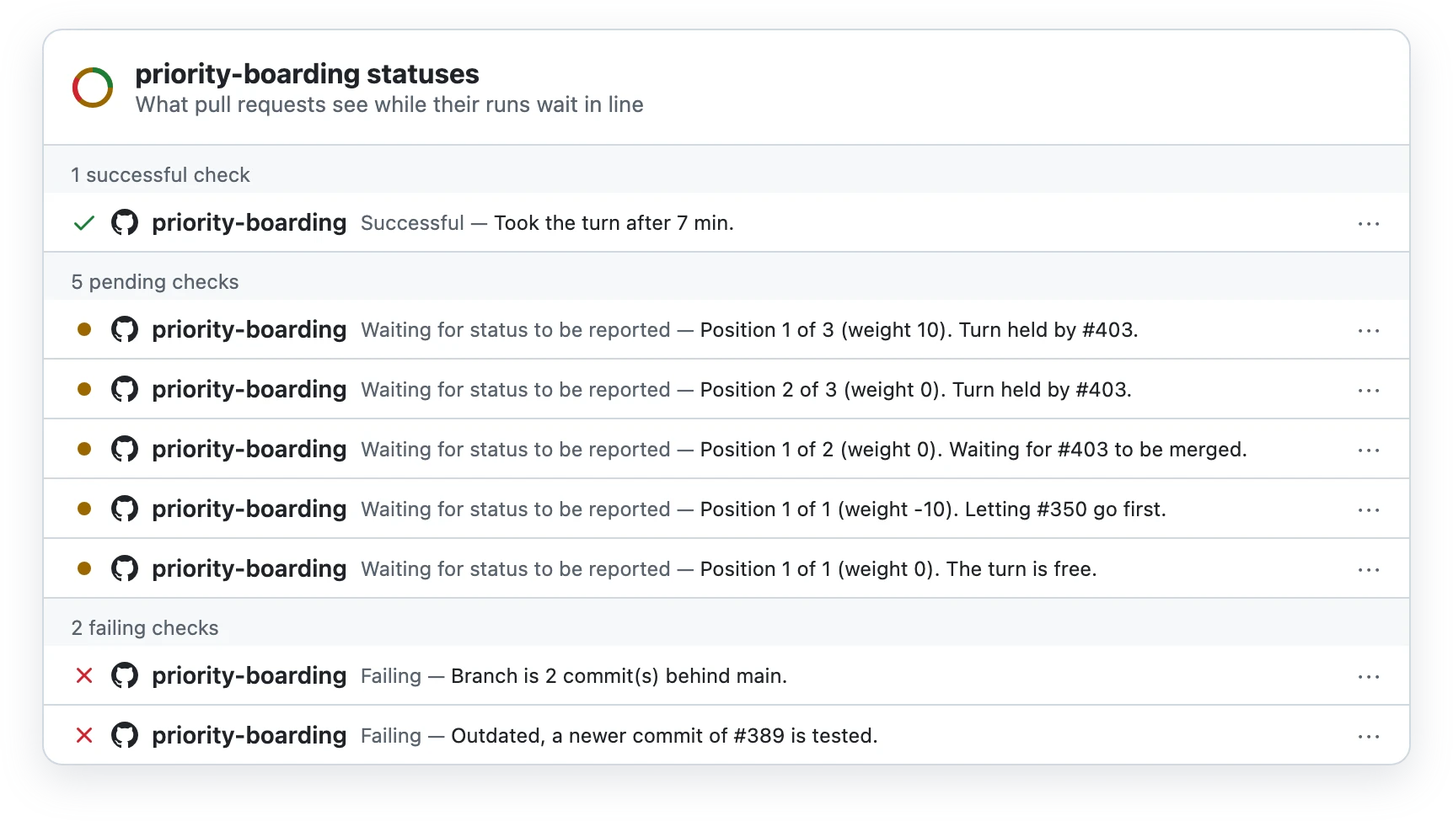
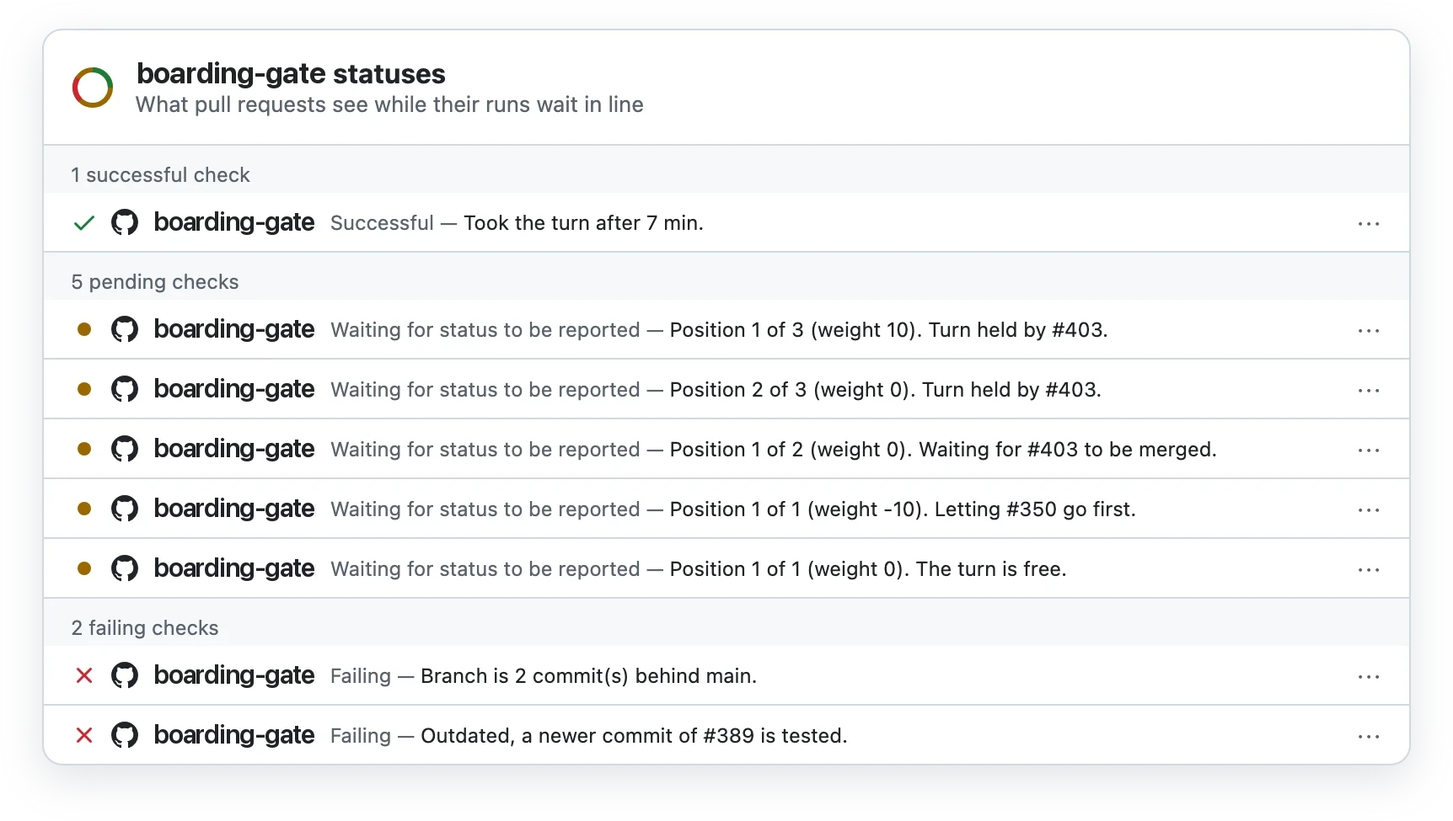
feat: rename the action to boarding-gate
The main job of the action is the gate: one run at a time gets through, the others wait in line. Priority by labels is one part of that, and the old name made it look like the whole point.

Renamed: the repository, the action, the reusable workflows (now .github/workflows/boarding-gate.yml and boarding-gate-forks.yml), their job and step names, the lock refs (refs/boarding-gate/<workflow>/<n>), the lock commit message, the default status context, the README images and the links in the changelog. There is no backwards compatibility.

Callers need to change:
- uses: udondan/boarding-gate@v1, or udondan/boarding-gate/.github/workflows/boarding-gate.yml@v1 for the reusable workflow
- the job name in needs: when it was priority-boarding
- required status checks in branch protection that use the default status context priority-boarding

diff --git a/README.md b/README.md
@@ -1,21 +1,21 @@
-# priority-boarding
+# boarding-gate
 
 <picture>
   <source media="(prefers-color-scheme: dark)" srcset=".github/banner-dark.webp">
-  <img alt="priority-boarding: Everyone waits. The gate decides who's next." src=".github/banner-light.webp">
+  <img alt="boarding-gate: Everyone waits. The gate decides who's next." src=".github/banner-light.webp">
 </picture>
 
-[![Release](https://img.shields.io/github/v/release/udondan/priority-boarding)](https://github.com/udondan/priority-boarding/releases/latest)
-[![Marketplace](https://img.shields.io/badge/marketplace-priority--boarding-blue?logo=github)](https://github.com/marketplace/actions/priority-boarding)
-[![Test](https://github.com/udondan/priority-boarding/actions/workflows/test.yml/badge.svg?branch=main)](https://github.com/udondan/priority-boarding/actions/workflows/test.yml?query=branch%3Amain)
-[![Coverage](https://codecov.io/gh/udondan/priority-boarding/graph/badge.svg)](https://codecov.io/gh/udondan/priority-boarding)
-[![License](https://img.shields.io/github/license/udondan/priority-boarding)](LICENSE)
+[![Release](https://img.shields.io/github/v/release/udondan/boarding-gate)](https://github.com/udondan/boarding-gate/releases/latest)
+[![Marketplace](https://img.shields.io/badge/marketplace-boarding--gate-blue?logo=github)](https://github.com/marketplace/actions/boarding-gate)
+[![Test](https://github.com/udondan/boarding-gate/actions/workflows/test.yml/badge.svg?branch=main)](https://github.com/udondan/boarding-gate/actions/workflows/test.yml?query=branch%3Amain)
+[![Coverage](https://codecov.io/gh/udondan/boarding-gate/graph/badge.svg)](https://codecov.io/gh/udondan/boarding-gate)
+[![License](https://img.shields.io/github/license/udondan/boarding-gate)](LICENSE)
 
 GitHub Action that queues the runs of a workflow so only one run at a time uses shared resources (test stacks, environments), without cancelling pending runs the way a `concurrency` group does. Runs are ordered by the labels of their pull requests, so for example your own pull requests are tested before dependency updates, and release pull requests last. See [Alternatives](#alternatives) for when merge queue fits better.
 
 ## How it works
 
-The run that has the turn holds the lock ref `refs/priority-boarding/<workflow>/<n>`. The turn is released when that run completes, including all jobs after the wait, or, if its pull request is about to be auto-merged, after the merge (see [Outdated branches](#outdated-branches)). A failed or cancelled run releases it as well, so cancelling the run holding the turn frees it, also in the middle of a job after the wait. The next run takes the turn by creating ref `<n+1>`. Creating a ref fails if it already exists, so only one run can take the turn. Old lock refs are deleted.
+The run that has the turn holds the lock ref `refs/boarding-gate/<workflow>/<n>`. The turn is released when that run completes, including all jobs after the wait, or, if its pull request is about to be auto-merged, after the merge (see [Outdated branches](#outdated-branches)). A failed or cancelled run releases it as well, so cancelling the run holding the turn frees it, also in the middle of a job after the wait. The next run takes the turn by creating ref `<n+1>`. Creating a ref fails if it already exists, so only one run can take the turn. Old lock refs are deleted.
 
 Waiting runs are ordered by weight (highest first), then by start time. A re-run of the run holding the turn keeps it. A re-run of any other run queues by its new start time. A run of a pull request that has a newer run is left out of the queue: its commit is outdated, and it can stay active for a while after it stopped waiting, for example while other jobs finish after it failed as outdated. A waiting run fails as soon as its pull request has a newer run of another commit, so it never tests the outdated commit. To stop it right away instead of at its next check, add a `concurrency` group (see [Workflow setup](#workflow-setup)).
 
@@ -69,7 +69,7 @@ flowchart TD
 
 ```yaml
 jobs:
-  priority-boarding:
+  boarding-gate:
     runs-on: ubuntu-latest
     timeout-minutes: 180
     permissions:
@@ -80,7 +80,7 @@ jobs:
       group: ${{ github.workflow }}-wait-${{ github.event.pull_request.number || github.ref }}
       cancel-in-progress: true
     steps:
-      - uses: udondan/priority-boarding@v1
+      - uses: udondan/boarding-gate@v1
         with:
           require-up-to-date: true
           label-weights: |
@@ -88,12 +88,12 @@ jobs:
             renovate=-5
 
   deploy:
-    needs: priority-boarding
+    needs: boarding-gate
     if: ${{ !cancelled() }}
     runs-on: ubuntu-latest
     steps:
       - name: Check turn
-        if: needs.priority-boarding.result != 'success'
+        if: needs.boarding-gate.result != 'success'
         run: exit 1
       # ...
 ```
@@ -106,22 +106,22 @@ The wait job can also be called as a [reusable workflow](https://docs.github.com
 
 ```yaml
 jobs:
-  priority-boarding:
+  boarding-gate:
     permissions:
       actions: read
       contents: write
       pull-requests: read
       statuses: write
-    uses: udondan/priority-boarding/.github/workflows/priority-boarding.yml@v1
+    uses: udondan/boarding-gate/.github/workflows/boarding-gate.yml@v1
     secrets:
       update-token: ${{ secrets.UPDATE_TOKEN }}
 
   deploy:
-    needs: priority-boarding
+    needs: boarding-gate
     # ...
 ```
 
-It runs the action with a `concurrency` group that cancels outdated waiting runs (see [Workflow setup](#workflow-setup)) and queues on the calling workflow. The action comes from the same commit as the workflow file, so `@v1` follows every release of both. The calling job can still have its own `needs` and `if`, but no `runs-on` or `steps`. Its permissions are the most the called job gets, so grant them there. `statuses: write` is only needed for `status-context`. In the checks of a pull request, the job is shown as `priority-boarding / Priority boarding`.
+It runs the action with a `concurrency` group that cancels outdated waiting runs (see [Workflow setup](#workflow-setup)) and queues on the calling workflow. The action comes from the same commit as the workflow file, so `@v1` follows every release of both. The calling job can still have its own `needs` and `if`, but no `runs-on` or `steps`. Its permissions are the most the called job gets, so grant them there. `statuses: write` is only needed for `status-context`. In the checks of a pull request, the job is shown as `boarding-gate / Boarding gate`.
 
 The inputs are the [inputs](#inputs) of the action, with the secrets `update-token` and `token`. Some defaults differ from the action's, to match the setup this README recommends:
 
@@ -131,7 +131,7 @@ The inputs are the [inputs](#inputs) of the action, with the secrets `update-tok
 | `no-pull-request-weight` | `-100`                                                    |
 | `timeout-minutes`        | `180`                                                     |
 | `require-up-to-date`     | `true`                                                    |
-| `status-context`         | `priority-boarding`                                       |
+| `status-context`         | `boarding-gate`                                       |
 
 With these weights, label a pull request `urgent` to move its run to the front of the queue, also while it is waiting. Create the label in your repository first. Your own `label-weights` replace the defaults, so add `urgent=10` to them to keep it.
 
@@ -165,7 +165,7 @@ Pass `label-weights: ''` or `status-context: ''` under `with:` to turn them off.
 
 ```yaml
   required:
-    needs: [priority-boarding, deploy]
+    needs: [boarding-gate, deploy]
     if: always()
     runs-on: ubuntu-latest
     steps:
@@ -189,7 +189,7 @@ on:
     branches: [main]
 
 # ...
-      - uses: udondan/priority-boarding@v1
+      - uses: udondan/boarding-gate@v1
         with:
           label-weights: |
             autorelease: pending=-10
@@ -208,7 +208,7 @@ With branch protection requiring branches to be up to date, testing a branch tha
 Not every branch gets updated after a merge. release-please, for example, leaves its pull request alone when the merged commit doesn't change the changelog, so its runs would fail forever. With `update-token`, the action rebases a branch that is behind onto the base branch before failing, and the new commit starts a new run. Pushes made with `github.token` don't start workflow runs, so `update-token` has to be a personal access token or a GitHub App token with `contents: write` and `pull-requests: write`. Branches of forks are never updated.
 
 ```yaml
-      - uses: udondan/priority-boarding@v1
+      - uses: udondan/boarding-gate@v1
         with:
           require-up-to-date: true
           update-token: ${{ secrets.UPDATE_TOKEN }}
@@ -221,7 +221,7 @@ After a merge, the other pull requests are updated at different times. A release
 With `update-pending-branches: true` and `update-token`, the waiting run also rebases such a pull request when its tested branch is behind, and lets the new commit go first. This keeps the order by weight after a merge, without waiting for the branch to be updated by someone else. It costs a run per rebase, also for a pull request whose tests fail: it is tested again each time its base branch moves on. Branches of forks are never updated.
 
 ```yaml
-      - uses: udondan/priority-boarding@v1
+      - uses: udondan/boarding-gate@v1
         with:
           require-up-to-date: true
           update-pending-branches: true
@@ -238,7 +238,7 @@ The log shows the queue, but GitHub doesn't show the log of a composite action l
 
 <picture>
   <source media="(prefers-color-scheme: dark)" srcset=".github/statuses-dark.webp">
-  <img alt="Examples of the priority-boarding commit status: took the turn, waiting in line behind a running pull request, waiting for a pull request to be merged, letting a pull request with a higher weight go first, the turn is free, branch behind, outdated commit" src=".github/statuses-light.webp" width="862">
+  <img alt="Examples of the boarding-gate commit status: took the turn, waiting in line behind a running pull request, waiting for a pull request to be merged, letting a pull request with a higher weight go first, the turn is free, branch behind, outdated commit" src=".github/statuses-light.webp" width="862">
 </picture>
 
 The token needs `statuses: write`. Without it, the action logs a warning and waits without the status. A run killed before it can clean up leaves the status pending.
@@ -250,9 +250,9 @@ The token needs `statuses: write`. Without it, the action logs a warning and wai
       pull-requests: read
       statuses: write
     steps:
-      - uses: udondan/priority-boarding@v1
+      - uses: udondan/boarding-gate@v1
         with:
-          status-context: priority-boarding
+          status-context: boarding-gate
 ```
 
 ## Alternatives
@@ -270,7 +270,7 @@ Runs of pull requests from forks get a read-only token and can't create the lock
 That other run is started by `workflow_run`, which runs the workflow of the default branch with a writable token, also for runs of forks. Add this workflow next to the one that waits, with the `name` of that workflow under `workflows`:
 
 ```yaml
-name: Priority boarding for forks
+name: Boarding gate for forks
 
 on:
   workflow_run: # zizmor: ignore[dangerous-triggers] no code of the pull request is run
@@ -280,14 +280,14 @@ on:
 permissions: {}
 
 jobs:
-  priority-boarding:
+  boarding-gate:
     if: github.event.workflow_run.event == 'pull_request' && github.event.workflow_run.head_repository.full_name != github.repository
     permissions:
       actions: read
       contents: write
       pull-requests: read
       statuses: write
-    uses: udondan/priority-boarding/.github/workflows/priority-boarding.yml@v1
+    uses: udondan/boarding-gate/.github/workflows/boarding-gate.yml@v1
     with:
       run-id: ${{ format('{0}', github.event.workflow_run.id) }}
 ```

diff --git a/AGENTS.md b/AGENTS.md
@@ -4,7 +4,7 @@ This file provides guidance to Claude Code (claude.ai/code) when working with co
 
 ## What this is
 
-A composite GitHub Action. `action.yml` maps inputs to `INPUT_*` env vars (plus PR context like `PR_NUMBER`, `BASE_REF`, `HEAD_SHA`, `HEAD_REPO`, `UPDATE_TOKEN`) and runs `wait.sh`. All logic is in `wait.sh` (bash + `gh api` + `jq`). There is no build step and no package manager. `.github/workflows/priority-boarding.yml` is a reusable workflow (`on: workflow_call`, never runs on its own) with the recommended wait job; it calls the action with `uses: $/`, the same commit, and `test.yml` calls it on every PR as a test. README.md documents user-facing behavior; keep it, `action.yml` input descriptions, the inputs of the reusable workflow and the header comment of `wait.sh` in sync when behavior changes. The mermaid flow diagram under "How it works" in README.md shows the main loop of `wait.sh`: update it in the same change whenever a step, exit, wait condition or path through the loop changes (forks and `run-id` runs included), so it always matches the code. The same goes for the sequence diagram under "Pull requests from forks", which shows how a fork's run and the `workflow_run` run with `run-id` hand over the turn.
+A composite GitHub Action. `action.yml` maps inputs to `INPUT_*` env vars (plus PR context like `PR_NUMBER`, `BASE_REF`, `HEAD_SHA`, `HEAD_REPO`, `UPDATE_TOKEN`) and runs `wait.sh`. All logic is in `wait.sh` (bash + `gh api` + `jq`). There is no build step and no package manager. `.github/workflows/boarding-gate.yml` is a reusable workflow (`on: workflow_call`, never runs on its own) with the recommended wait job; it calls the action with `uses: $/`, the same commit, and `test.yml` calls it on every PR as a test. README.md documents user-facing behavior; keep it, `action.yml` input descriptions, the inputs of the reusable workflow and the header comment of `wait.sh` in sync when behavior changes. The mermaid flow diagram under "How it works" in README.md shows the main loop of `wait.sh`: update it in the same change whenever a step, exit, wait condition or path through the loop changes (forks and `run-id` runs included), so it always matches the code. The same goes for the sequence diagram under "Pull requests from forks", which shows how a fork's run and the `workflow_run` run with `run-id` hand over the turn.
 
 ## Commands
 
@@ -18,14 +18,14 @@ Tool versions are pinned in `mise.toml` (bats, ruby, shellcheck, actionlint, ziz
 
 ## How wait.sh works
 
-- **Lock**: the turn is held by the run that created the newest ref `refs/priority-boarding/<workflow>/<n>`. Taking the turn = creating a commit (message `priority-boarding: run <id>[, pull request <n>]`) and ref `<n+1>`. Ref creation returns HTTP 422 if it exists, which is the mutual exclusion. After creating, it re-checks the newest ref (a stale run may recreate an old number) and deletes older refs. The holder's run id / PR are parsed back from the lock commit message (`read_holder`), so that format is a contract.
+- **Lock**: the turn is held by the run that created the newest ref `refs/boarding-gate/<workflow>/<n>`. Taking the turn = creating a commit (message `boarding-gate: run <id>[, pull request <n>]`) and ref `<n+1>`. Ref creation returns HTTP 422 if it exists, which is the mutual exclusion. After creating, it re-checks the newest ref (a stale run may recreate an old number) and deletes older refs. The holder's run id / PR are parsed back from the lock commit message (`read_holder`), so that format is a contract.
 - **Holder liveness** (`is_active`): active runs come from the *unfiltered* runs list filtered client-side, because the API's `status` filter is backed by a stale search index. A holder missing from that list is fetched directly; only a 404 or `completed` releases the turn, other errors keep it held.
 - **Merge wait** (`merge_pending`): a successful holder whose PR has auto-merge keeps the turn until merged/closed, behind/dirty, blocked by a failed required check (GraphQL `isRequired`, a read error keeps waiting), new head commit, or `merge-wait-minutes`.
 - **Queue**: active runs minus the holder, minus older runs of a PR that has a newer run (this run stays, but `check_newer_run` fails it if the newer run is of another commit), sorted by label weight desc, then `run_started_at`, then id.
 - **Yield** (`find_pending`/`yielding`): before taking a free turn, the first run defers to open auto-merge PRs with higher weight whose head sha has no run yet, up to `yield-to-pending-minutes`. A tested PR that is behind is not waited for, unless `update-pending-branches` (needs `update-token`, never forks): then `check_head` rebases it and defers to its new commit.
 - **Polling**: first in line (or turn free) sleeps `poll-interval-seconds`, others `queued-poll-interval-seconds`; PR labels are refreshed on the slow interval or when the turn is free.
 - **Up to date** (`check_up_to_date`/`update_branch`): with `require-up-to-date`, fails when behind; with `update-token` it first runs `gh pr update-branch --rebase` (never for forks) and still exits 1, since the new commit starts a new run.
-- **Forks** (`read_only`, `run_id`, `self`): `self` is the run that waits, `GITHUB_RUN_ID` or `run-id`. A read-only run (auto: `pull_request` from a fork) never writes, `update-token` and `update-pending-branches` are ignored. When first in line with a free turn it waits for a lock naming it, `wait_for_handoff` fails it after 5 minutes. A `run-id` run (started by `workflow_run`, see `priority-boarding-forks.yml`) resolves head sha, PR (named by the run, else by head branch for `pull_request` and `pull_request_target` runs) and workflow from that run, takes the turn for it and exits 0 when that run has ended or tests an outdated commit of its PR. `workflow_run` sends `in_progress` again per later job of the run, so a `run-id` run sets its first status (`waiting`) only once it has to wait: finding the turn taken or the run ended leaves the status alone. Runs list entries of forks have no `pull_requests`; `match_query` fills `.pr` from the open PRs by head repository and branch (`head`, stable across new commits) for `pull_request` and `pull_request_target` events; a branch with several open PRs matches none.
+- **Forks** (`read_only`, `run_id`, `self`): `self` is the run that waits, `GITHUB_RUN_ID` or `run-id`. A read-only run (auto: `pull_request` from a fork) never writes, `update-token` and `update-pending-branches` are ignored. When first in line with a free turn it waits for a lock naming it, `wait_for_handoff` fails it after 5 minutes. A `run-id` run (started by `workflow_run`, see `boarding-gate-forks.yml`) resolves head sha, PR (named by the run, else by head branch for `pull_request` and `pull_request_target` runs) and workflow from that run, takes the turn for it and exits 0 when that run has ended or tests an outdated commit of its PR. `workflow_run` sends `in_progress` again per later job of the run, so a `run-id` run sets its first status (`waiting`) only once it has to wait: finding the turn taken or the run ended leaves the status alone. Runs list entries of forks have no `pull_requests`; `match_query` fills `.pr` from the open PRs by head repository and branch (`head`, stable across new commits) for `pull_request` and `pull_request_target` events; a branch with several open PRs matches none.
 - **Commit status** (`set_status`): optional, only sent when changed, truncated to 140 chars; failure to set it disables it with a warning. An EXIT trap sets failure (or error on INT/TERM) unless the run took the turn.
 
 ## Test harness
@@ -43,4 +43,4 @@ release-please (`release-type: simple`) builds CHANGELOG.md and tags from conven
 
 ## End-to-end tests
 
-`test/e2e/` runs the action for real in the throwaway repository `udondan/priority-boarding-e2e`: scenarios open parallel pull requests, an observer records lock refs, runs and pull requests, and an analyzer checks mutual exclusion, order, release and commit statuses. Not run on pull requests, a scenario takes 3 to 15 minutes, all about 1.5 hours: run `test/e2e/run.sh --ref <ref>` locally or start the workflow `e2e.yml` (`gh workflow run e2e.yml -f ref=<ref>`, needs the secret `E2E_TOKEN`). See `test/e2e/README.md`. A behavior change that the bats tests can't show (API timing, auto-merge, rebases with a token, cancellation) should get a scenario there.
+`test/e2e/` runs the action for real in the throwaway repository `udondan/boarding-gate-e2e`: scenarios open parallel pull requests, an observer records lock refs, runs and pull requests, and an analyzer checks mutual exclusion, order, release and commit statuses. Not run on pull requests, a scenario takes 3 to 15 minutes, all about 1.5 hours: run `test/e2e/run.sh --ref <ref>` locally or start the workflow `e2e.yml` (`gh workflow run e2e.yml -f ref=<ref>`, needs the secret `E2E_TOKEN`). See `test/e2e/README.md`. A behavior change that the bats tests can't show (API timing, auto-merge, rebases with a token, cancellation) should get a scenario there.

diff --git a/CHANGELOG.md b/CHANGELOG.md
@@ -1,69 +1,69 @@
 # Changelog
 
-## [1.11.0](https://github.com/udondan/priority-boarding/compare/v1.10.1...v1.11.0) (2026-11-02)
+## [1.11.0](https://github.com/udondan/boarding-gate/compare/v1.10.1...v1.11.0) (2026-11-02)
 
 
 ### Features
 
-* let pull requests from forks take part in the queue ([#44](https://github.com/udondan/priority-boarding/issues/44)) ([1e39c57](https://github.com/udondan/priority-boarding/commit/1e39c57e561e52dca0876d601e1759d688d1a343))
+* let pull requests from forks take part in the queue ([#44](https://github.com/udondan/boarding-gate/issues/44)) ([1e39c57](https://github.com/udondan/boarding-gate/commit/1e39c57e561e52dca0876d601e1759d688d1a343))
 
 
 ### Bug Fixes
 
-* fail at once without contents: write and support Dependabot pull requests ([#46](https://github.com/udondan/priority-boarding/issues/46)) ([80168be](https://github.com/udondan/priority-boarding/commit/80168be50cfff37eb6b56ddc9b40886d93561844))
-* keep the commit status of a fork's run when workflow_run starts again for its later jobs ([#50](https://github.com/udondan/priority-boarding/issues/50)) ([8b57e0f](https://github.com/udondan/priority-boarding/commit/8b57e0fdb4c21813f11331b3a7e93fb7d3e4ff65))
-* support pull_request_target workflows ([#47](https://github.com/udondan/priority-boarding/issues/47)) ([9245cf0](https://github.com/udondan/priority-boarding/commit/9245cf0c3ba16c3c5f7517ffcbf72f92752293a7))
+* fail at once without contents: write and support Dependabot pull requests ([#46](https://github.com/udondan/boarding-gate/issues/46)) ([80168be](https://github.com/udondan/boarding-gate/commit/80168be50cfff37eb6b56ddc9b40886d93561844))
+* keep the commit status of a fork's run when workflow_run starts again for its later jobs ([#50](https://github.com/udondan/boarding-gate/issues/50)) ([8b57e0f](https://github.com/udondan/boarding-gate/commit/8b57e0fdb4c21813f11331b3a7e93fb7d3e4ff65))
+* support pull_request_target workflows ([#47](https://github.com/udondan/boarding-gate/issues/47)) ([9245cf0](https://github.com/udondan/boarding-gate/commit/9245cf0c3ba16c3c5f7517ffcbf72f92752293a7))
 
 
 ### Dependencies
 
-* **deps:** update jdx/mise-action action to v5 ([#48](https://github.com/udondan/priority-boarding/issues/48)) ([7a25ab0](https://github.com/udondan/priority-boarding/commit/7a25ab08b93e0b115a1d0b5004e16197db0b76e8))
+* **deps:** update jdx/mise-action action to v5 ([#48](https://github.com/udondan/boarding-gate/issues/48)) ([7a25ab0](https://github.com/udondan/boarding-gate/commit/7a25ab08b93e0b115a1d0b5004e16197db0b76e8))
 
-## [1.10.1](https://github.com/udondan/priority-boarding/compare/v1.10.0...v1.10.1) (2026-11-01)
+## [1.10.1](https://github.com/udondan/boarding-gate/compare/v1.10.0...v1.10.1) (2026-11-01)
 
 
 ### Miscellaneous Chores
 
-* release 1.10.1 ([#42](https://github.com/udondan/priority-boarding/issues/42)) ([d488163](https://github.com/udondan/priority-boarding/commit/d48816310df8c0d9c12d3fa4bc6556b6a8fa1b81))
+* release 1.10.1 ([#42](https://github.com/udondan/boarding-gate/issues/42)) ([d488163](https://github.com/udondan/boarding-gate/commit/d48816310df8c0d9c12d3fa4bc6556b6a8fa1b81))
 
-## [1.10.0](https://github.com/udondan/priority-boarding/compare/v1.9.0...v1.10.0) (2026-11-01)
+## [1.10.0](https://github.com/udondan/boarding-gate/compare/v1.9.0...v1.10.0) (2026-11-01)
 
 
 ### Features
 
-* prioritize pull requests labelled urgent in the reusable workflow ([#38](https://github.com/udondan/priority-boarding/issues/38)) ([2b53668](https://github.com/udondan/priority-boarding/commit/2b53668b9ff7493d8ddf28d9ae3b59e33b0d916f))
-* rename the action to priority-boarding ([#40](https://github.com/udondan/priority-boarding/issues/40)) ([a4fcbf6](https://github.com/udondan/priority-boarding/commit/a4fcbf6954b947751137d78a4e27ac7b3b4689f6))
+* prioritize pull requests labelled urgent in the reusable workflow ([#38](https://github.com/udondan/boarding-gate/issues/38)) ([2b53668](https://github.com/udondan/boarding-gate/commit/2b53668b9ff7493d8ddf28d9ae3b59e33b0d916f))
+* rename the action to priority-boarding ([#40](https://github.com/udondan/boarding-gate/issues/40)) ([a4fcbf6](https://github.com/udondan/boarding-gate/commit/a4fcbf6954b947751137d78a4e27ac7b3b4689f6))
 
 
 ### Bug Fixes
 
-* release the turn when the holder's pull request has a failed required check ([#33](https://github.com/udondan/priority-boarding/issues/33)) ([b8d9fce](https://github.com/udondan/priority-boarding/commit/b8d9fce972a70b70d5501d3249267caf4f2899ce))
-* set the error status when a waiting run is cancelled ([#32](https://github.com/udondan/priority-boarding/issues/32)) ([61ed5bb](https://github.com/udondan/priority-boarding/commit/61ed5bb9bc9ee7e840538ea7e66acf0c4954c543))
+* release the turn when the holder's pull request has a failed required check ([#33](https://github.com/udondan/boarding-gate/issues/33)) ([b8d9fce](https://github.com/udondan/boarding-gate/commit/b8d9fce972a70b70d5501d3249267caf4f2899ce))
+* set the error status when a waiting run is cancelled ([#32](https://github.com/udondan/boarding-gate/issues/32)) ([61ed5bb](https://github.com/udondan/boarding-gate/commit/61ed5bb9bc9ee7e840538ea7e66acf0c4954c543))
 
-## [1.9.0](https://github.com/udondan/wait-for-turn/compare/v1.8.0...v1.9.0) (2026-10-31)
-
-
-### Features
-
-* don't wait for tested pull requests that are behind, optionally rebase them ([#28](https://github.com/udondan/wait-for-turn/issues/28)) ([697a84f](https://github.com/udondan/wait-for-turn/commit/697a84fc4c8d75f99cd8f7e7f0d3f5fbdbb5078d))
-
-## [1.8.0](https://github.com/udondan/wait-for-turn/compare/v1.7.1...v1.8.0) (2026-10-31)
+## [1.9.0](https://github.com/udondan/boarding-gate/compare/v1.8.0...v1.9.0) (2026-10-31)
 
 
 ### Features
 
-* add the wait job as a reusable workflow ([#26](https://github.com/udondan/wait-for-turn/issues/26)) ([126172c](https://github.com/udondan/wait-for-turn/commit/126172cdf5393d7fcfe1aa7500f8721ffc87377a))
+* don't wait for tested pull requests that are behind, optionally rebase them ([#28](https://github.com/udondan/boarding-gate/issues/28)) ([697a84f](https://github.com/udondan/boarding-gate/commit/697a84fc4c8d75f99cd8f7e7f0d3f5fbdbb5078d))
 
-## [1.7.1](https://github.com/udondan/wait-for-turn/compare/v1.7.0...v1.7.1) (2026-10-30)
+## [1.8.0](https://github.com/udondan/boarding-gate/compare/v1.7.1...v1.8.0) (2026-10-31)
+
+
+### Features
+
+* add the wait job as a reusable workflow ([#26](https://github.com/udondan/boarding-gate/issues/26)) ([126172c](https://github.com/udondan/boarding-gate/commit/126172cdf5393d7fcfe1aa7500f8721ffc87377a))
+
+## [1.7.1](https://github.com/udondan/boarding-gate/compare/v1.7.0...v1.7.1) (2026-10-30)
 
 
 ### Bug Fixes
 
-* fail a waiting run when its pull request has a newer commit ([#24](https://github.com/udondan/wait-for-turn/issues/24)) ([1e1e4b5](https://github.com/udondan/wait-for-turn/commit/1e1e4b5b34b950580254cf3aea6e0d26ecf1c3bc))
+* fail a waiting run when its pull request has a newer commit ([#24](https://github.com/udondan/boarding-gate/issues/24)) ([1e1e4b5](https://github.com/udondan/boarding-gate/commit/1e1e4b5b34b950580254cf3aea6e0d26ecf1c3bc))
 
-## [1.7.0](https://github.com/udondan/wait-for-turn/compare/v1.6.0...v1.7.0) (2026-10-30)
+## [1.7.0](https://github.com/udondan/boarding-gate/compare/v1.6.0...v1.7.0) (2026-10-30)
 
 
 ### Features
 
-* show queue position as commit status ([#14](https://github.com/udondan/wait-for-turn/issues/14)) ([52b9cf1](https://github.com/udondan/wait-for-turn/commit/52b9cf1587343e9ceec34e8a868728db1219a5da))
+* show queue position as commit status ([#14](https://github.com/udondan/boarding-gate/issues/14)) ([52b9cf1](https://github.com/udondan/boarding-gate/commit/52b9cf1587343e9ceec34e8a868728db1219a5da))

diff --git a/test/e2e/README.md b/test/e2e/README.md
@@ -1,6 +1,6 @@
 # End-to-end tests
 
-The bats tests run `wait.sh` against a fake `gh` and a fake `sleep`. These tests run the action for real, in a throwaway public repository (`udondan/priority-boarding-e2e` by default, set `E2E_REPO` to use another one): real runs, lock refs, auto-merge, rebases with a token, concurrency cancellation and commit statuses.
+The bats tests run `wait.sh` against a fake `gh` and a fake `sleep`. These tests run the action for real, in a throwaway public repository (`udondan/boarding-gate-e2e` by default, set `E2E_REPO` to use another one): real runs, lock refs, auto-merge, rebases with a token, concurrency cancellation and commit statuses.
 
 They don't run on pull requests. A scenario takes 3 to 15 minutes, all of them about 1.5 hours. Run them locally (see [Running](#running)) or with the workflow [End-to-end tests](../../.github/workflows/e2e.yml) (see [In GitHub Actions](#in-github-actions)).
 
@@ -19,7 +19,7 @@ They don't run on pull requests. A scenario takes 3 to 15 minutes, all of them a
 `setup.sh` can't set the token for rebases. Create a fine-grained personal access token for the test repository only, with **Contents** and **Pull requests** read and write, and store it:
 
 ```sh
-gh secret set UPDATE_TOKEN -R udondan/priority-boarding-e2e
+gh secret set UPDATE_TOKEN -R udondan/boarding-gate-e2e
 ```
 
 Scenarios 06, 07, 09 and 10 need it.
@@ -46,8 +46,8 @@ test/e2e/run.sh 03 06                  # some of them
 The workflow `e2e.yml` runs `run.sh --ref <ref> [scenarios]`, started by hand: Actions → End-to-end tests → Run workflow, or
 
 ```sh
-gh workflow run e2e.yml -R udondan/priority-boarding -f ref=main               # all scenarios
-gh workflow run e2e.yml -R udondan/priority-boarding -f ref=main -f scenarios="03 06"
+gh workflow run e2e.yml -R udondan/boarding-gate -f ref=main               # all scenarios
+gh workflow run e2e.yml -R udondan/boarding-gate -f ref=main -f scenarios="03 06"
 ```
 
 The job summary shows the PASS/FAIL lines, the artifact `e2e-results` has the logs and reports. Only one run at a time, a second one waits.
@@ -55,13 +55,13 @@ The job summary shows the PASS/FAIL lines, the artifact `e2e-results` has the lo
 It needs the secret `E2E_TOKEN` in this repository: a fine-grained personal access token for the test repository only, with read and write for **Actions**, **Administration**, **Contents**, **Issues**, **Pull requests**, **Variables** and **Workflows**, and read for **Commit statuses** and **Secrets**. Keep it apart from `UPDATE_TOKEN`, so the action under test only gets the permissions users are told to give it.
 
 ```sh
-gh secret set E2E_TOKEN -R udondan/priority-boarding
+gh secret set E2E_TOKEN -R udondan/boarding-gate
 ```
 
 Scenario 15 also needs the secret `E2E_FORK_TOKEN`: a classic personal access token of a second account, with the scopes `public_repo` and `workflow`. The scenario forks the test repository with it, pushes branches to the fork and opens pull requests from it. A fine-grained token can't fork a repository of another account. Runs of the fork wait for approval as long as the account has no merged pull request, the scenario approves them with `E2E_TOKEN`. Locally, set `E2E_FORK_TOKEN` in the environment.
 
 ```sh
-gh secret set E2E_FORK_TOKEN -R udondan/priority-boarding
+gh secret set E2E_FORK_TOKEN -R udondan/boarding-gate
 ```
 
 Each scenario first resets the repository: it closes pull requests, cancels runs, deletes branches and lock refs and restores the default variables. Don't run two at the same time.
@@ -110,5 +110,5 @@ The repository can stay for the next release. To delete it:
 
 ```sh
 gh auth refresh -s delete_repo
-gh repo delete udondan/priority-boarding-e2e
+gh repo delete udondan/boarding-gate-e2e
 ```
